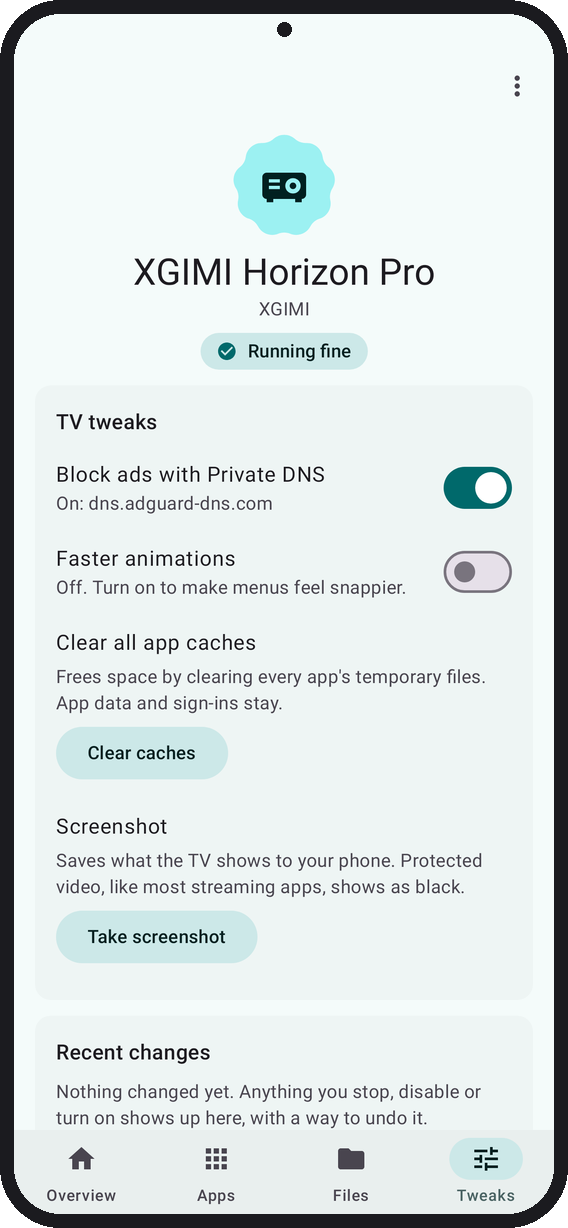
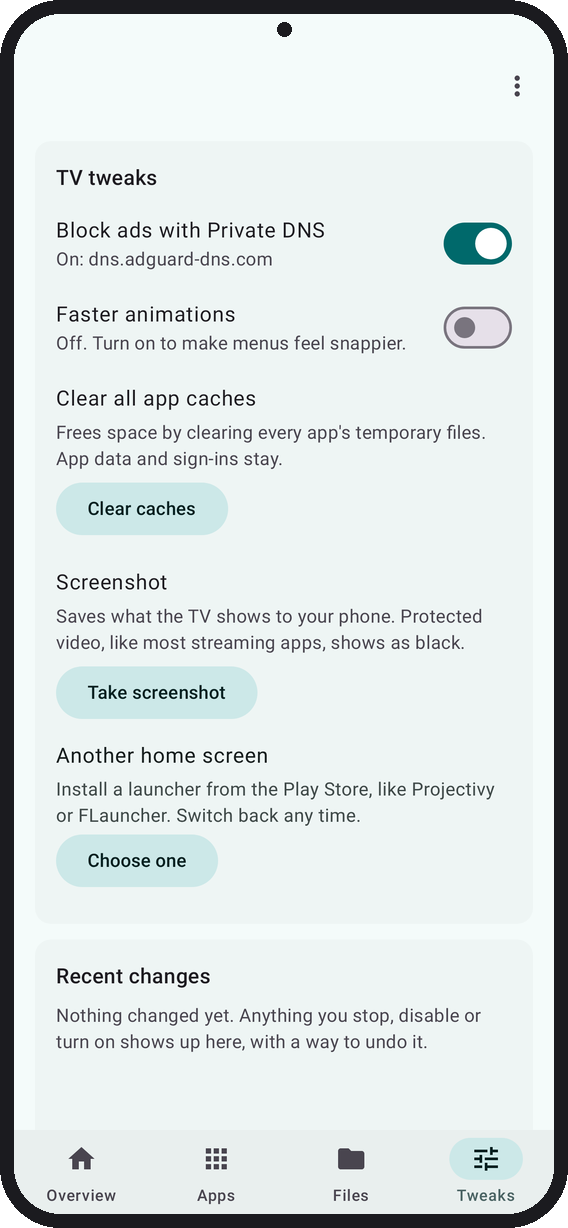
README: Remote, Tweaks and Advanced shots; two rows of four
remote.png shows the Remote as it is now (Screen off, Menu, the clear
button), tweaks.png adds the Another home screen row, and advanced.png
replaces the Move preview. The access rows go, along with their images
and frame.py entries. "Install or update apps" becomes "Install apps".

diff --git a/docs/screenshots/frame.py b/docs/screenshots/frame.py
@@ -26,8 +26,6 @@ SHOTS = {
     "send": "25_readme_send",
     "tweaks": "29_readme_tweaks",
     "home": "30_readme_home",
-    "access-warning": "94_overview_access",
-    "who-has-access": "95_who_has_access",
 }
 
 DP = 3  # the tests render at xxhdpi

diff --git a/README.md b/README.md
@@ -19,7 +19,7 @@ Debloat your Android TV, install apps, and browse and transfer files on it, all 
 <table>
   <tr>
     <td width="25%"><img src="docs/screenshots/tv-page.png" alt="A TV's page: the TV at a glance, its vitals, and the Install, Debloat and Send buttons"></td>
-    <td width="25%"><img src="docs/screenshots/remote.png" alt="The Remote: a D-pad, icon keys for Back, Home, Menu, mute and volume, a dock of four TV apps and typing on the TV"></td>
+    <td width="25%"><img src="docs/screenshots/remote.png" alt="The Remote: Screen off in the top bar, a D-pad, icon keys for Back, Home, Menu, mute and volume, a dock of four TV apps, and typing on the TV with a button to clear its text box"></td>
     <td width="25%"><img src="docs/screenshots/debloat.png" alt="Debloat: the TV's model on top, then the apps it will turn off, each with its package name"></td>
     <td width="25%"><img src="docs/screenshots/install.png" alt="Updating Netflix on the TV from an APK on the phone"></td>
   </tr>
@@ -27,31 +27,23 @@ Debloat your Android TV, install apps, and browse and transfer files on it, all 
     <td align="center"><sub>Your TV at a glance</sub></td>
     <td align="center"><sub>Control the TV, dock your apps</sub></td>
     <td align="center"><sub>Review every app Debloat turns off</sub></td>
-    <td align="center"><sub>Install or update apps</sub></td>
+    <td align="center"><sub>Install apps</sub></td>
   </tr>
   <tr>
     <td><img src="docs/screenshots/send.png" alt="Sending a video from the phone to the TV's Movies folder"></td>
-    <td><img src="docs/screenshots/tweaks.png" alt="TV tweaks: ad-blocking Private DNS on, faster animations, clear caches and screenshot"></td>
+    <td><img src="docs/screenshots/tweaks.png" alt="TV tweaks: ad-blocking Private DNS on, faster animations, clear caches, screenshot, and Another home screen to install a launcher"></td>
     <td><img src="docs/screenshots/home.png" alt="Making Projectivy Launcher the home screen: the confirm names both launchers"></td>
-    <td><img src="docs/screenshots/move.png" alt="A preview of Move to a new TV: the review step lists the apps to turn off and the settings to copy, before anything changes"></td>
+    <td><img src="docs/screenshots/advanced.png" alt="Advanced: CPU and RAM by app, the TV's network connection, and the apps' open connections"></td>
   </tr>
   <tr>
     <td align="center"><sub>Send files to the TV</sub></td>
-    <td align="center"><sub>Block ads and tweak the TV</sub></td>
+    <td align="center"><sub>Block ads, tweak the TV, add a launcher</sub></td>
     <td align="center"><sub>Set default launcher</sub></td>
-    <td align="center"><sub>Move your setup to a new TV (coming soon)</sub></td>
-  </tr>
-  <tr>
-    <td><img src="docs/screenshots/access-warning.png" alt="The TV's page warns that another computer is connected, above Connected devices: the remote, headphones and keyboard"></td>
-    <td><img src="docs/screenshots/who-has-access.png" alt="Who has access: this phone and one other address connected now, then every computer the TV allows, each with its fingerprint and when it was last seen"></td>
-  </tr>
-  <tr>
-    <td align="center"><sub>Know when another computer connects</sub></td>
-    <td align="center"><sub>See who has access, remove it in one tap</sub></td>
+    <td align="center"><sub>Advanced: what is using the CPU, RAM and network</sub></td>
   </tr>
 </table>
 
-<sub>Rendered from the app's screenshot tests with sample data, except Move your setup, which is a preview.</sub>
+<sub>Rendered from the app's screenshot tests with sample data. Remote and the Tweaks launcher row are drawn to match the app, and Advanced joins parts of its longer page.</sub>
 
 ## Get it
 
